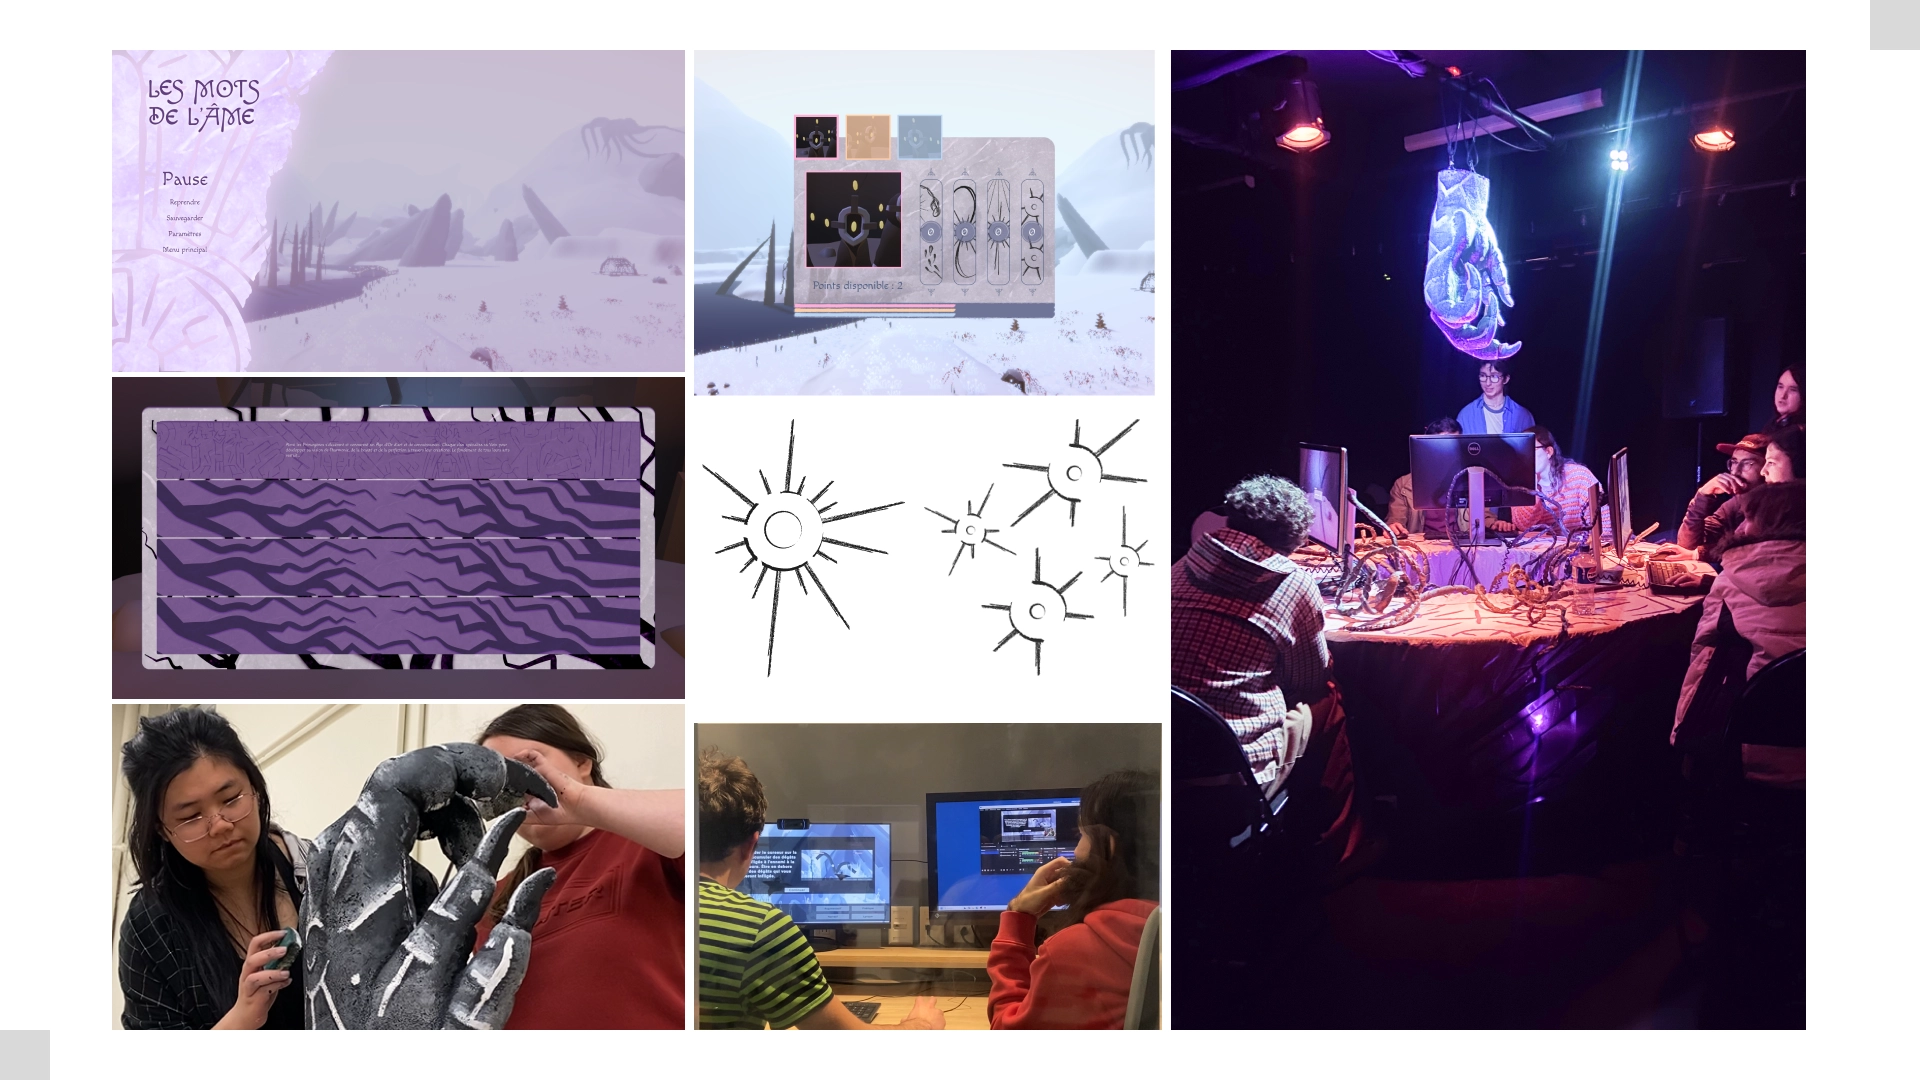
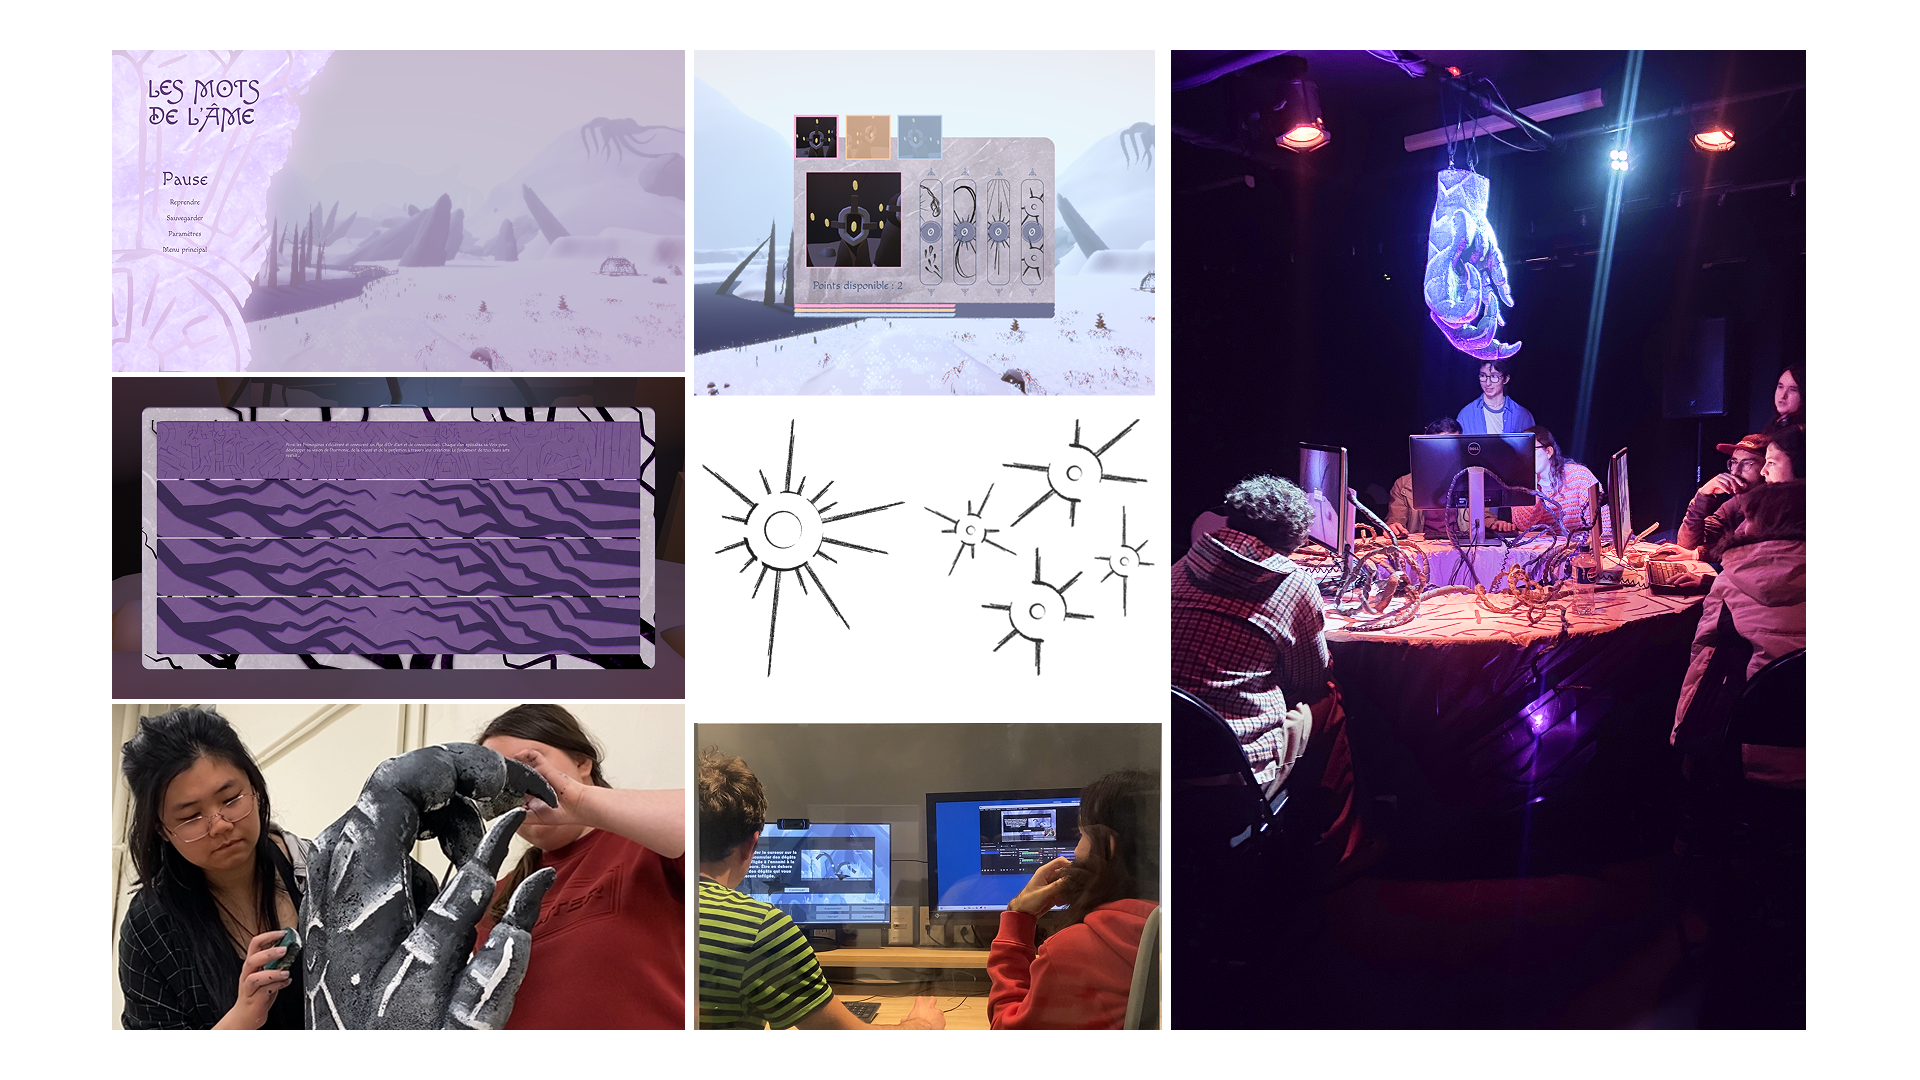
ajustement typo

diff --git a/collections/_projects/2025-LaOuNousEtions.md b/collections/_projects/2025-LaOuNousEtions.md
@@ -16,11 +16,13 @@ cover: assets/images/projects/LaOuNousEtions/
 En incarnant deux êtres d’un amour naissant, nous explorons un univers onirique où souvenirs et émotions d’histoires d’amour se confondent. L’objectif sera alors de retracer plusieurs situations de couple, permettant ainsi à notre duo de joueurs de discuter de ces différents scénarios.
 
 Le prototype réalisé comprend un premier niveau composé de six casse-tête ainsi qu’une cinématique d’introduction.
-[Une démo du projet est disponible ici](https://mmeche.itch.io/laounousetions)
+- [Une démo du projet est disponible ici](https://mmeche.itch.io/laounousetions)
+- [Accéder au teaser](https://youtu.be/jkYSZlwG69A)
 
 ## Ma contribution :
 - direction artistique et concept art des différents niveaux
 - cinématique et illustrations d’introduction
 - conception des interfaces utilisateurs (UX / UI)
 
+<img src="{{page.cover | relative_url}}01-moodboard.png">
 Un projet qui a suscité beaucoup d’intérêt pour le corps professoral de l’UQAT qui nous a supervisé durant cette première année de maîtrise (2e cycle universitaire).

diff --git a/collections/_projects/2025-LesMotsDeLAme.md b/collections/_projects/2025-LesMotsDeLAme.md
@@ -29,7 +29,6 @@ Ma principale contribution a été dans la coordination du projet et de l’équ
 J’ai également contribué dans la production en concevant les différentes interfaces utilisateur et en testant régulièrement le jeu pour en améliorer son expérience ( UX / UI )
 
 <img src="{{page.cover | relative_url}}01-moodboard.png">
-<!-- TODO supp les rectangles gris du moodboard -->
 ## Ce projet a été présenté :
 - aux printemps numériques 2026 du Musée d’Art de Rouyn-Noranda
 - à la 3e édition de la Nuit Blanche de Rouyn-Noranda
